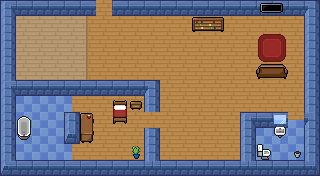
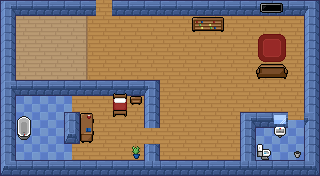
creation of the candle and the book in lvl000

Changed region(s): [[0.3438, 0.5114, 0.5, 0.8239], [0.25, 0.7102, 0.2812, 0.767]]

diff --git a/ReversedRebecca/src/com/sunsigne/reversedrebecca/object/other/Candle.java b/ReversedRebecca/src/com/sunsigne/reversedrebecca/object/other/Candle.java
@@ -1,0 +1,57 @@
+package com.sunsigne.reversedrebecca.object.other;
+
+import java.awt.Graphics;
+import java.awt.image.BufferedImage;
+
+import com.sunsigne.reversedrebecca.object.GameObject;
+import com.sunsigne.reversedrebecca.pattern.Cycloid;
+import com.sunsigne.reversedrebecca.ressources.images.ImageTask;
+
+public class Candle extends GameObject {
+
+	public Candle(int x, int y) {
+		super(x, y);
+		loadImage();
+	}
+
+	////////// TICK ////////////
+
+	private final int ANIMATION_TIME = 16;
+	private int time = ANIMATION_TIME;
+
+	@Override
+	public void tick() {
+		runAnimation();
+	}
+
+	private void runAnimation() {
+		time--;
+		if (time < 0) {
+			time = ANIMATION_TIME;
+			image.cycle();
+		}
+	}
+
+	////////// TEXTURE ////////////
+
+	protected Cycloid<BufferedImage> image;
+
+	private void loadImage() {
+
+		String path = "textures/other/candle_";
+		ImageTask loader = new ImageTask();
+
+		BufferedImage i0 = loader.loadImage(path + "0");
+		BufferedImage i1 = loader.loadImage(path + "1");
+
+		image = new Cycloid<BufferedImage>(i0, i1);
+	}
+
+	////////// RENDER ////////////
+
+	@Override
+	public void render(Graphics g) {
+		g.drawImage(image.getState(), getX(), getY(), getWidth(), getHeight(), null);
+	}
+
+}

diff --git a/ReversedRebecca/src/com/sunsigne/reversedrebecca/world/mapcreator/mappable/other/MappableCandle.java b/ReversedRebecca/src/com/sunsigne/reversedrebecca/world/mapcreator/mappable/other/MappableCandle.java
@@ -1,17 +1,17 @@
 package com.sunsigne.reversedrebecca.world.mapcreator.mappable.other;
 
 import com.sunsigne.reversedrebecca.object.GameObject;
-import com.sunsigne.reversedrebecca.object.other.Book;
+import com.sunsigne.reversedrebecca.object.other.Candle;
 import com.sunsigne.reversedrebecca.world.mapcreator.MapCreator;
 import com.sunsigne.reversedrebecca.world.mapcreator.mappable.Mappable;
 
-public class MappableBook implements Mappable {
+public class MappableCandle implements Mappable {
 
-	private MappableBook() {
+	private MappableCandle() {
 		new MapCreator().getList().addObject(this);
 	}
 
-	private static Mappable mappable = new MappableBook();
+	private static Mappable mappable = new MappableCandle();
 
 	@Override
 	public Mappable getMappable() {
@@ -22,7 +22,7 @@ public class MappableBook implements Mappable {
 
 	@Override
 	public GameObject createObject(int x, int y) {
-		return new Book(x, y);
+		return new Candle(x, y);
 	}
 
 	@Override

diff --git a/ReversedRebecca/src/com/sunsigne/reversedrebecca/piranha/request/state/NameRequest.java b/ReversedRebecca/src/com/sunsigne/reversedrebecca/piranha/request/state/NameRequest.java
@@ -3,8 +3,9 @@ package com.sunsigne.reversedrebecca.piranha.request.state;
 import com.sunsigne.reversedrebecca.object.piranha.PiranhaObject;
 import com.sunsigne.reversedrebecca.piranha.request.Request;
 import com.sunsigne.reversedrebecca.piranha.request.RequestList;
+import com.sunsigne.reversedrebecca.piranha.request.conditional.ConditionalRequest;
 
-public class NameRequest implements Request {
+public class NameRequest extends ConditionalRequest {
 
 	////////// REQUEST ////////////
 
@@ -31,8 +32,13 @@ public class NameRequest implements Request {
 
 	// WARNING ! Each name should be different in a same folder
 	@Override
-	public void doAction(PiranhaObject object, String target) {
+	public void doClassicAction(PiranhaObject object, String target) {
 		object.setName(target);
+	}
+
+	@Override
+	protected String getConditionToCheck(PiranhaObject object) {
+		return object.getName();
 	}
 
 }

diff --git a/ReversedRebecca/src/com/sunsigne/reversedrebecca/piranha/request/IndexRequest.java b/ReversedRebecca/src/com/sunsigne/reversedrebecca/piranha/request/IndexRequest.java
@@ -12,14 +12,14 @@ public interface IndexRequest extends Request {
 
 		// determinate the position
 
-		String pos = String.valueOf(target.split(",")[0]);
+		String pos = String.valueOf(target.split(":")[0]);
 		int x = Integer.parseInt(pos.split("-")[0]);
 		int y = Integer.parseInt(pos.split("-")[1]);
 		GoalObject goal = new GoalObject(x, y, false);
 
 		// determinate the object from the index 
 
-		int index = Integer.parseInt(target.split(",")[1]) - 1;
+		int index = Integer.parseInt(target.split(":")[1]) - 1;
 
 		GameList<GameObject> object_list = Handler.getObjectsAtPos(object.getHandler(), goal.getX(), goal.getY(),
 				object.getSize());
